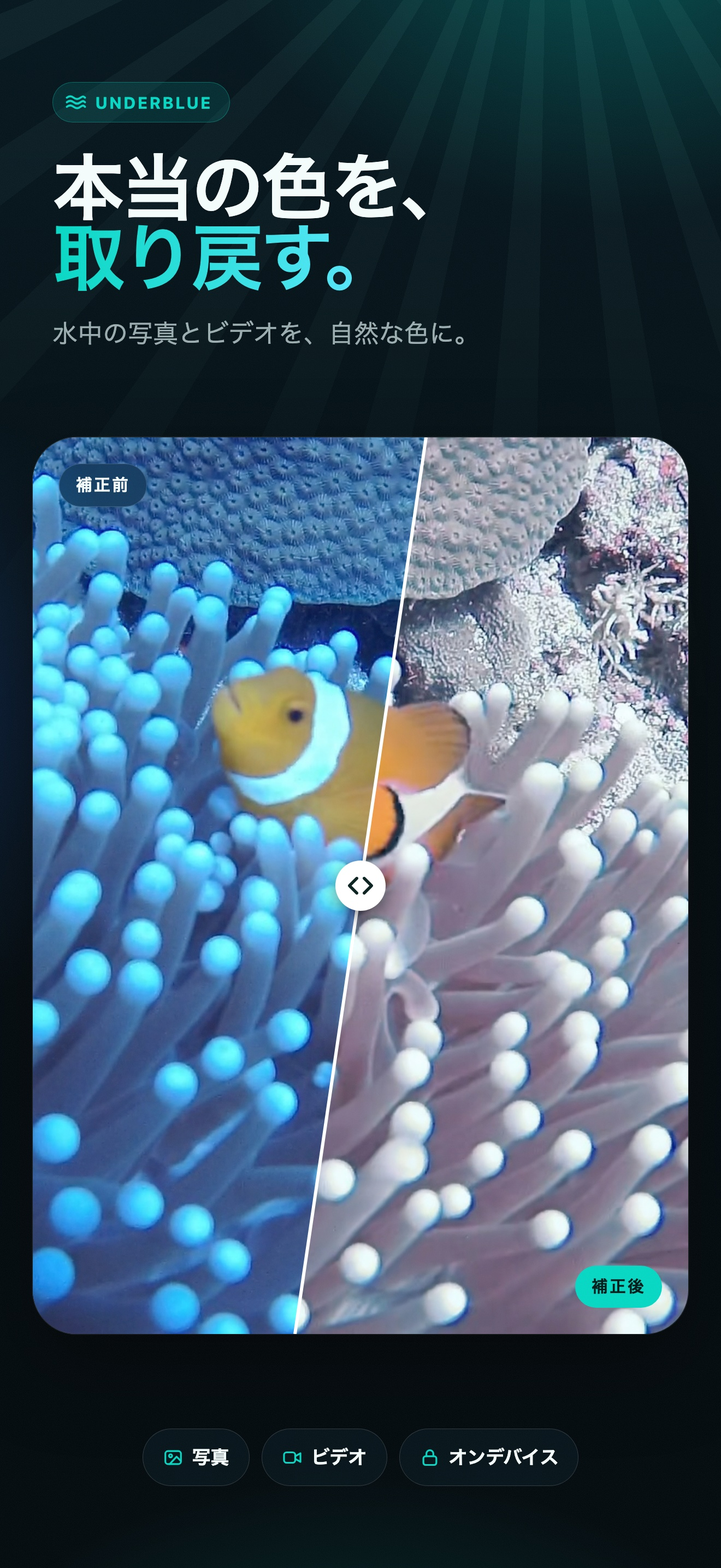
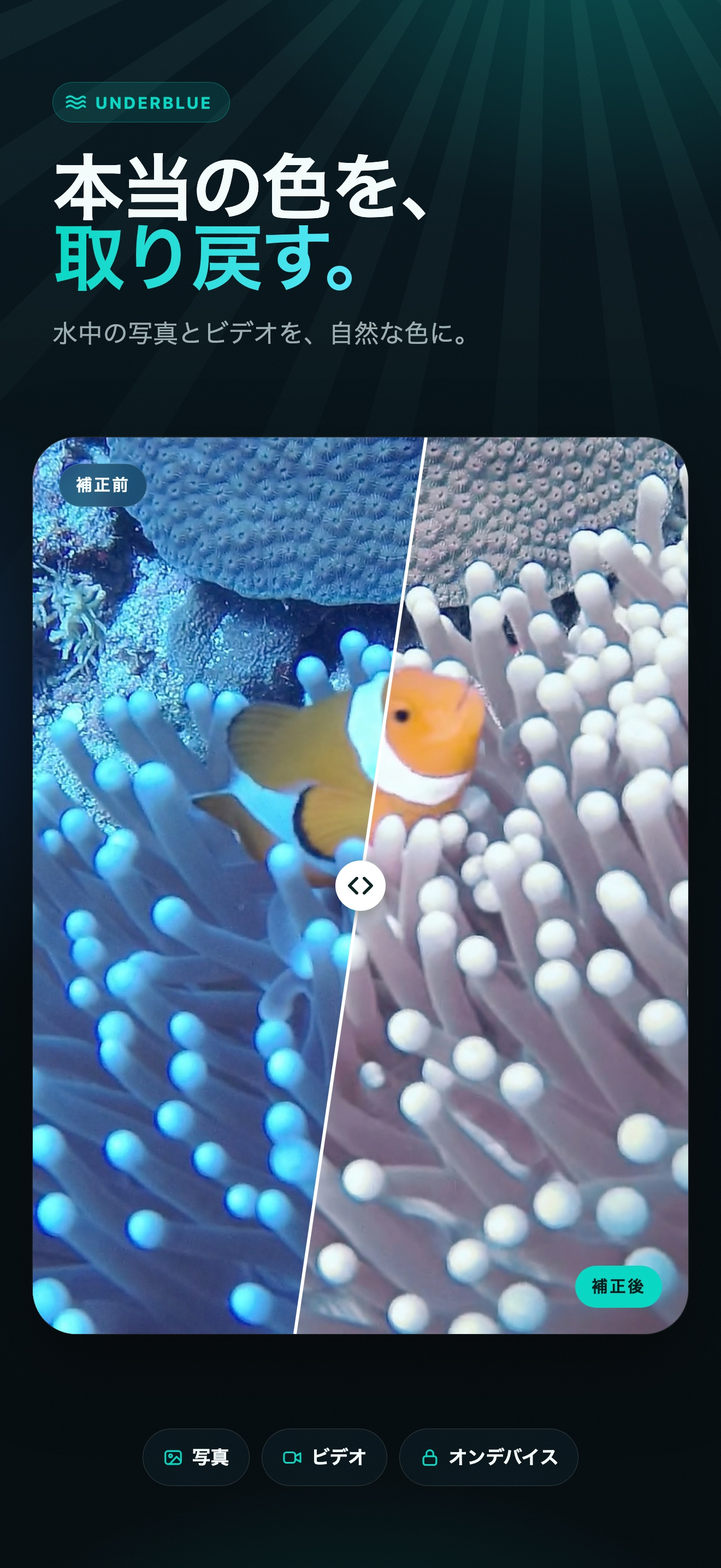
Mirror the clownfish in screenshot 01 for every language
The split now crosses the fish: tail on the "before" side, head on the "after" side (Jake).
The layout is shared, so en-US, ko, ja and later languages all get it.
Screens 02-05 render byte for byte the same.

diff --git a/scripts/app_store_screenshots/screens.html b/scripts/app_store_screenshots/screens.html
@@ -127,7 +127,9 @@
     border-radius: 80px; overflow: hidden;
     box-shadow: 0 60px 140px rgba(0, 0, 0, 0.6), 0 0 0 1.5px rgba(255, 255, 255, 0.12);
   }
-  .hero-card img { position: absolute; inset: 0; width: 100%; height: 100%; object-fit: cover; object-position: 70% 50%; }
+  /* The frames are mirrored (render.js), so the clownfish faces right. 32.5% puts the fish centre on the split line:
+     its tail on the "before" side, its head on the "after" side. */
+  .hero-card img { position: absolute; inset: 0; width: 100%; height: 100%; object-fit: cover; object-position: 32.5% 50%; }
   .hero-card .before { clip-path: polygon(0 0, 60% 0, 40% 100%, 0 100%); }
   .hero-card svg.diag { position: absolute; inset: 0; width: 100%; height: 100%; z-index: 2; }
 

diff --git a/scripts/app_store_screenshots/render.js b/scripts/app_store_screenshots/render.js
@@ -32,8 +32,9 @@ fs.copyFileSync(path.join(__dirname, 'screens.html'), path.join(work, 'screens.h
 for (const n of ['home', 'photo_before', 'photo_after', 'video_before', 'video_after']) {
   fs.copyFileSync(sourceFile(n + '.PNG'), path.join(assets, n + '.png'));
 }
+// Mirrored, so the clownfish in screenshot 01 faces right (see screens.html).
 for (const n of ['video_frame_before', 'video_frame_after']) {
-  execFileSync('sips', ['-s', 'format', 'jpeg', '-s', 'formatOptions', '95',
+  execFileSync('sips', ['-s', 'format', 'jpeg', '-s', 'formatOptions', '95', '--flip', 'horizontal',
     sourceFile(n + '.HEIC'), '--out', path.join(assets, n + '.jpg')], { stdio: 'ignore' });
 }
 

diff --git a/AppStoreAssets/Screenshots/README.md b/AppStoreAssets/Screenshots/README.md
@@ -34,7 +34,7 @@ Capture the five screens on the iPhone with the app language set to that languag
 | `video_after.PNG` | Same reef video, Natural Dive, Intensity 80% |
 | `video_before.PNG` | Same state, Compare held |
 
-The video frame pair (`video_frame_*.HEIC`) has no UI, so every language reuses `en-US`.
+The video frame pair (`video_frame_*.HEIC`) has no UI, so every language reuses `en-US`. render.js mirrors it, so the clownfish in screenshot 01 faces right: tail on the "before" side, head on the "after" side (Jake, 24 Oct 2026).
 
 Status (23 Oct 2026): `ko/final` is committed. Its captions are Korean, but its phone screens are the en-US captures, because the Korean captures are on hold. Whether this set was uploaded for 1.1.4 is not recorded. `ja/final` (24 Oct 2026) is the same kind of set: Japanese captions over the en-US captures. An independent reviewer checked the Japanese copy, because Jake cannot review it. `zh-Hans` and `zh-Hant` need captions and full App Store metadata first.
 
